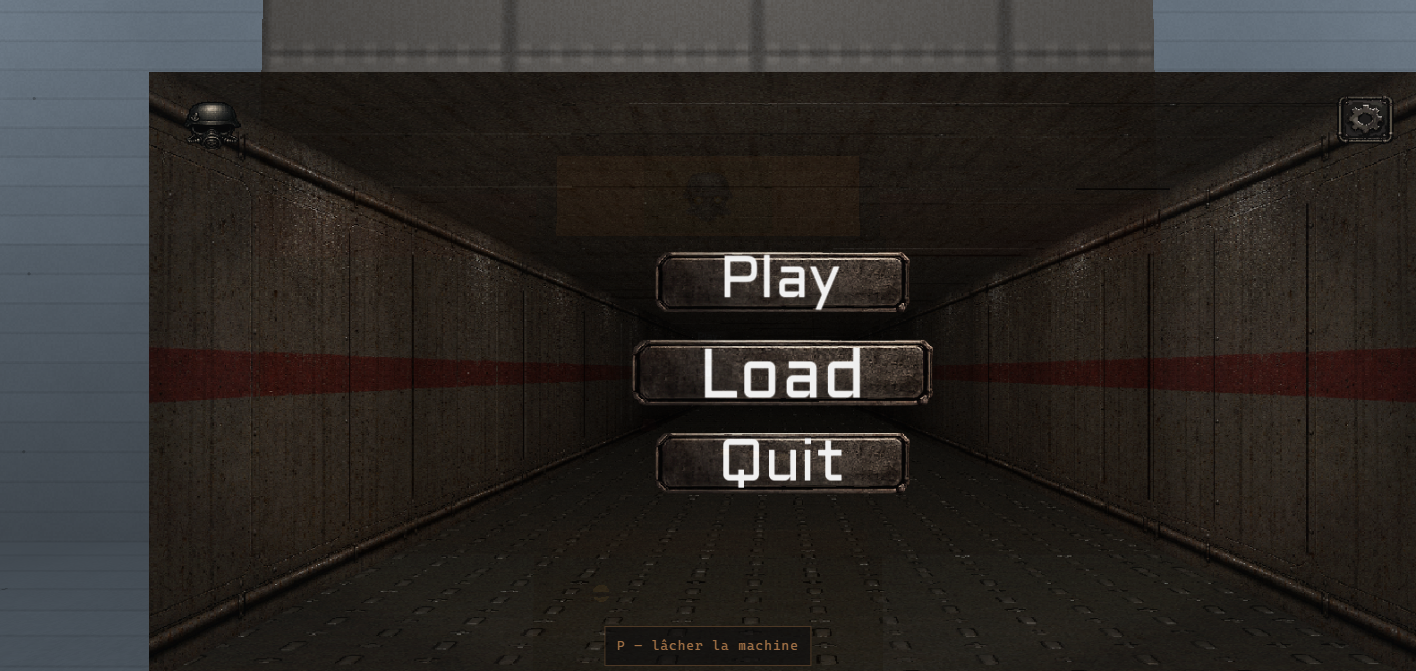
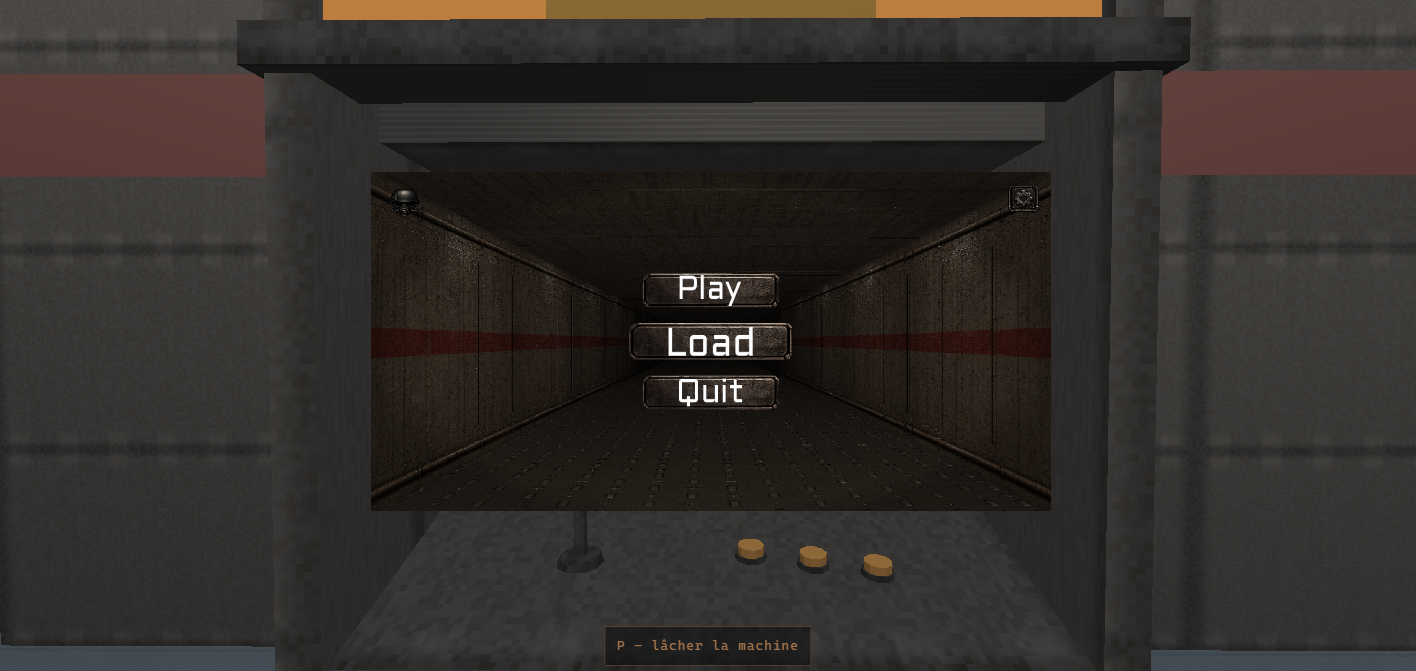
on entre dans l'écran, littéralement
L'immersion étirait le canevas du jeu depuis la place de la dalle jusqu'au
plein cadre — et elle partait d'un coin de la page, parce que la
transformation supposait une origine au coin haut-gauche là où le défaut CSS
est le centre de l'élément. Corrigé ; mais un étirement, même juste, reste un
étirement : une interface qui grandit, pas une entrée.

Maintenant c'est la caméra du musée qui fait le mouvement. Pendant neuf
dixièmes de seconde elle quitte les yeux du visiteur — qui ne bouge pas — et
vole vers un point à quarante centimètres de la dalle, le regard se posant
sur elle en chemin, suivant la courbe d'une aspiration. Le canevas du jeu,
lui, reste épinglé sur la dalle image après image, à l'endroit exact où la
projection la fait tomber : la salle grossit autour de l'écran jusqu'à ce
qu'il n'y ait plus que lui. Le raccord au plein cadre se joue dans les
derniers dixièmes, quand la dalle emplit déjà presque tout — le fondu traîne
exprès derrière la caméra, c'est elle qui fait le travail — et un éclair d'un
dixième de seconde marque l'instant où l'écran de la borne devient l'écran
tout court.

Au retour, le même trajet remonté : on voit le jeu — son menu, sa partie —
rapetisser dans la lucarne du meuble pendant que la caméra recule, jusqu'à
n'être plus que l'image que la borne montre au mur. Reprendre la machine
pendant que l'image se range repart d'où le trajet en est, simplement
remonté.

Le canevas, lui, ne bouge presque plus : il est posé dans un rectangle par
[…]

diff --git a/src/main.ts b/src/main.ts
@@ -4,6 +4,7 @@ import { initGpu } from './render/gpu'
 import { Renderer } from './render/renderer'
 import { Player, presets } from './player/player'
 import { castRay } from './world/ray'
+import { add, normalize, scale, sub, type Vec3 } from './math/vec3'
 import { CUBE_SIZE, Projectiles } from './player/projectiles'
 import { Physics } from './player/physique'
 import { loadPictures, noPictures } from './render/pictures'
@@ -217,23 +218,54 @@ async function main(): Promise<void> {
     return { x, y, w: Math.max(...xs) - x, h: Math.max(...ys) - y }
   }
 
+  /**
+   * **L'immersion** : on n'apparaît pas dans le jeu, on y entre.
+   *
+   * Pendant qu'elle court, la caméra du musée quitte les yeux du visiteur et **vole vers la
+   * dalle** — le visiteur, lui, ne bouge pas — pendant que l'image du jeu reste épinglée sur
+   * cette dalle, image après image, à l'endroit exact où la projection la fait tomber. La
+   * salle grossit donc autour de l'écran jusqu'à ce qu'il n'y ait plus que lui, et le
+   * raccord au plein cadre se fait dans les derniers dixièmes, quand la dalle occupe déjà
+   * presque tout. Au retour, le même chemin à l'envers : l'image rentre dans le meuble.
+   */
+  interface Immersion {
+    sens: 'entre' | 'sort'
+    t: number
+    /** Les yeux du visiteur au moment du geste : le bout fixe du trajet. */
+    de: { pos: Vec3; forward: Vec3; up: Vec3 }
+  }
+  let immersion: Immersion | null = null
+  const ENTREE = 0.9
+  const SORTIE = 0.55
+
+  const yeux = () => ({
+    pos: { ...player.pos },
+    forward: { ...player.forward },
+    up: { ...player.up },
+  })
+
   const take = (): void => {
     playing = true
     document.body.classList.add('machine')
-    transition = 0.6
     sons.plonger(false)
+    // Si l'on reprend la machine pendant que l'image finissait de se ranger, on repart
+    // d'où elle en est — le trajet est le même, remonté.
+    immersion = immersion
+      ? { sens: 'entre', t: 1 - immersion.t, de: immersion.de }
+      : { sens: 'entre', t: 0, de: yeux() }
     // On ne décide pas du pointeur ici : c'est le portage qui rend au jeu l'état
     // exact qu'il avait demandé — libre dans ses menus, verrouillé dans une partie.
-    jeu?.prendre(placeDeLEcran())
+    jeu?.prendre()
+    jeu?.placer(placeDeLEcran() ?? null)
   }
   const release = (): void => {
     playing = false
     document.body.classList.remove('machine')
-    // Le musée redessine pendant que l'image se referme : c'est ce qui donne le sentiment de
-    // reculer hors du meuble, plutôt que de voir un panneau disparaître.
-    transition = 0.4
     sons.plonger(true)
-    jeu?.lacher(placeDeLEcran())
+    immersion = immersion
+      ? { sens: 'sort', t: 1 - immersion.t, de: immersion.de }
+      : { sens: 'sort', t: 0, de: yeux() }
+    jeu?.lacher()
     // Et l'on reprend le pointeur — à l'image suivante, le temps que le navigateur ait
     // fini de le rendre. Demandé dans la foulée du déverrouillage, il est ignoré.
     requestAnimationFrame(() => void canvas.requestPointerLock())
@@ -507,8 +539,6 @@ async function main(): Promise<void> {
   let ecran = 0
   /** Où le regard rencontre la matière, cette image-ci. Le clavier s'en sert aussi. */
   let regard: ReturnType<typeof castRay> = null
-  /** Secondes restantes d'immersion : tant qu'il en reste, le musée se dessine derrière. */
-  let transition = 0
 
   const frame = (now: number): void => {
     // Onglet en arrière-plan, point d'arrêt dans le débogueur : un pas de temps
@@ -578,14 +608,66 @@ async function main(): Promise<void> {
 
     // Pendant qu'on tient une machine, son écran couvre toute la page : dessiner le musée
     // derrière ne servirait qu'à lui disputer la carte graphique, et c'est elle qui en a
-    // besoin. Sa dernière image reste là, prête pour le moment où l'on lâchera.
-    if (transition > 0) transition = Math.max(0, transition - dt)
+    // besoin. On ne le dessine que libre — ou pendant l'immersion, où c'est lui qui fait
+    // tout le mouvement.
+    if (immersion) {
+      immersion.t = Math.min(1, immersion.t + dt / (immersion.sens === 'entre' ? ENTREE : SORTIE))
+    }
 
-    if (!playing || transition > 0) {
-      renderer.render(
-        { cell: player.cell, pos: player.pos, forward: player.forward, up: player.up },
-        projectiles.toRenderList(),
-      )
+    if (!playing || immersion) {
+      // La caméra de l'immersion : des yeux du visiteur vers un point à quarante
+      // centimètres de la dalle, le regard se posant sur elle en chemin. Douce au départ,
+      // pressée ensuite — la courbe d'une aspiration, pas celle d'un travelling.
+      let camera = { cell: player.cell, pos: player.pos, forward: player.forward, up: player.up }
+      let v = 0
+      if (immersion) {
+        const m = getLandmarks()
+        const de = immersion.de
+        const brut = immersion.sens === 'entre' ? immersion.t : 1 - immersion.t
+        v = brut * brut * (3 - 2 * brut)
+        const dir = normalize(sub(m.machinePos, de.pos))
+        const arret = add(m.machinePos, scale(dir, -0.42))
+        const vise = Math.min(1, v * 1.6)
+        camera = {
+          cell: m.machineCell,
+          pos: add(scale(de.pos, 1 - v), scale(arret, v)),
+          forward: normalize(add(scale(de.forward, 1 - vise), scale(dir, vise))),
+          up: de.up,
+        }
+      }
+      renderer.render(camera, projectiles.toRenderList())
+
+      if (immersion) {
+        if (jeu) {
+          // L'image du jeu, épinglée sur la dalle que la caméra approche — puis fondue
+          // vers le plein cadre dans les derniers dixièmes, quand la dalle emplit déjà
+          // presque tout. `couvre` traîne exprès derrière la caméra : c'est elle qui fait
+          // le travail, pas l'étirement.
+          const couvre = v ** 3
+          const dalle = placeDeLEcran()
+          const plein = { x: 0, y: 0, w: window.innerWidth, h: window.innerHeight }
+          jeu.placer(
+            dalle
+              ? {
+                  x: dalle.x * (1 - couvre),
+                  y: dalle.y * (1 - couvre),
+                  w: dalle.w + (plein.w - dalle.w) * couvre,
+                  h: dalle.h + (plein.h - dalle.h) * couvre,
+                }
+              : plein,
+          )
+        }
+        if (immersion.t >= 1) {
+          if (immersion.sens === 'entre') {
+            jeu?.placer(null)
+            jeu?.flash()
+          } else {
+            jeu?.cacher()
+            jeu?.placer(null)
+          }
+          immersion = null
+        }
+      }
     }
 
     hud.update({

diff --git a/src/machines/wolf3d-jeu.ts b/src/machines/wolf3d-jeu.ts
@@ -128,6 +128,11 @@ export class Jeu {
       pointerEvents: 'none',
     })
     canevas.addEventListener('contextmenu', (e) => e.preventDefault())
+    // L'origine des transformations est le coin haut-gauche — le défaut CSS est le
+    // **centre**, et c'est lui qui faisait partir l'image d'un coin de la page au lieu
+    // de l'écran de la borne : translate-puis-scale ne pose un rectangle que si l'origine
+    // est à zéro.
+    canevas.style.transformOrigin = '0 0'
     document.body.appendChild(canevas)
 
     await charger_script(`${RACINE}wolf3d.js`)
@@ -192,13 +197,16 @@ export class Jeu {
    *
    * Le canevas récupère aussi les événements de pointeur — sans quoi les clics traverseraient
    * jusqu'à celui du musée, qui reprendrait le verrouillage au premier clic dans le menu.
+   *
+   * Le **placement** de l'image, lui, n'est pas décidé ici : pendant l'immersion, c'est le
+   * musée qui épingle le canevas sur la dalle de la borne à chaque image, parce que lui seul
+   * sait où elle tombe à l'écran — la caméra bouge pendant qu'on entre. Voir `placer`.
    */
-  prendre(depuis?: Rect): void {
+  prendre(): void {
     this.tenu = true
     this.canevas.style.visibility = 'visible'
     this.canevas.style.pointerEvents = 'auto'
     this.module._edifice_ecoute(1)
-    this.plonger(depuis, false)
   }
 
   /**
@@ -213,8 +221,8 @@ export class Jeu {
     this.module._edifice_fermer()
   }
 
-  /** La lâcher : l'image se referme sur l'écran de la borne, puis s'efface. */
-  lacher(vers?: Rect): void {
+  /** La lâcher : les touches reviennent au musée. L'image, elle, se range par `placer`. */
+  lacher(): void {
     this.tenu = false
     this.canevas.style.pointerEvents = 'none'
     this.module._edifice_ecoute(0)
@@ -222,50 +230,38 @@ export class Jeu {
     // musée pendant que celui du jeu le tient ne suffit pas : le navigateur ne
     // transfère pas un verrouillage, il faut le défaire d'abord.
     if (document.pointerLockElement === this.canevas) document.exitPointerLock()
-
-    const animation = this.plonger(vers, true)
-    if (!animation) {
-      this.canevas.style.visibility = 'hidden'
-      return
-    }
-    animation.addEventListener('finish', () => {
-      if (!this.tenu) this.canevas.style.visibility = 'hidden'
-    })
   }
 
   /**
-   * **L'immersion.**
-   *
-   * L'image du jeu grandit depuis l'écran de la borne jusqu'au bord de la page. Le rectangle
-   * qu'on reçoit est la place que la dalle occupe dans l'image du musée, mesurée à la
-   * projection : sans lui, une image apparaît ; avec lui, on entre dans le meuble qu'on
-   * regardait. Le musée continue de se dessiner derrière pendant ce temps-là, de sorte qu'on
-   * voie la salle s'éloigner autour de l'écran.
+   * Pose l'image du jeu dans un rectangle de la page — ou plein cadre, avec `null`.
    *
    * Le canevas occupe déjà toute la page : on ne le redimensionne pas, on le **transforme**,
-   * ce qui ne coûte rien et ne touche pas au rendu. L'origine étant son coin supérieur
-   * gauche, une translation suivie d'une mise à l'échelle le pose exactement dans le
-   * rectangle voulu.
+   * ce qui ne coûte rien et ne touche pas au rendu. C'est l'outil de l'immersion : épinglé
+   * sur la dalle pendant que la caméra du musée vole vers elle, il est l'écran de la borne ;
+   * relâché plein cadre, il est le jeu.
    */
-  private plonger(rect: Rect | undefined, retour: boolean): Animation | null {
-    if (!rect || !this.canevas.animate) return null
-
+  placer(rect: Rect | null): void {
+    if (!rect) {
+      this.canevas.style.transform = ''
+      return
+    }
     const W = this.canevas.clientWidth || 1
     const H = this.canevas.clientHeight || 1
-    const petit = {
-      transform: `translate(${rect.x}px, ${rect.y}px) scale(${rect.w / W}, ${rect.h / H})`,
-      opacity: '0.4',
-      filter: 'brightness(1.6) contrast(1.2)',
-    }
-    const grand = { transform: 'translate(0px, 0px) scale(1, 1)', opacity: '1', filter: 'none' }
+    this.canevas.style.transform = `translate(${rect.x}px, ${rect.y}px) scale(${rect.w / W}, ${rect.h / H})`
+  }
 
-    return this.canevas.animate(retour ? [grand, petit] : [petit, grand], {
-      duration: retour ? 360 : 560,
-      // Vif au départ, posé à l'arrivée : c'est la courbe d'un objet qu'on approche du
-      // visage, et non celle d'un panneau qui coulisse.
-      easing: retour ? 'cubic-bezier(0.5, 0, 0.9, 0.4)' : 'cubic-bezier(0.13, 0.75, 0.2, 1)',
-      fill: 'both',
-    })
+  /** Cache l'image — la fin du retrait, quand elle a fini de rentrer dans la dalle. */
+  cacher(): void {
+    if (!this.tenu) this.canevas.style.visibility = 'hidden'
+  }
+
+  /** L'éclair du raccord : l'instant où l'écran de la borne devient l'écran tout court. */
+  flash(): void {
+    if (!this.canevas.animate) return
+    this.canevas.animate(
+      [{ filter: 'brightness(2.1) saturate(0.65)' }, { filter: 'none' }],
+      { duration: 190, easing: 'ease-out' },
+    )
   }
 
   /**
